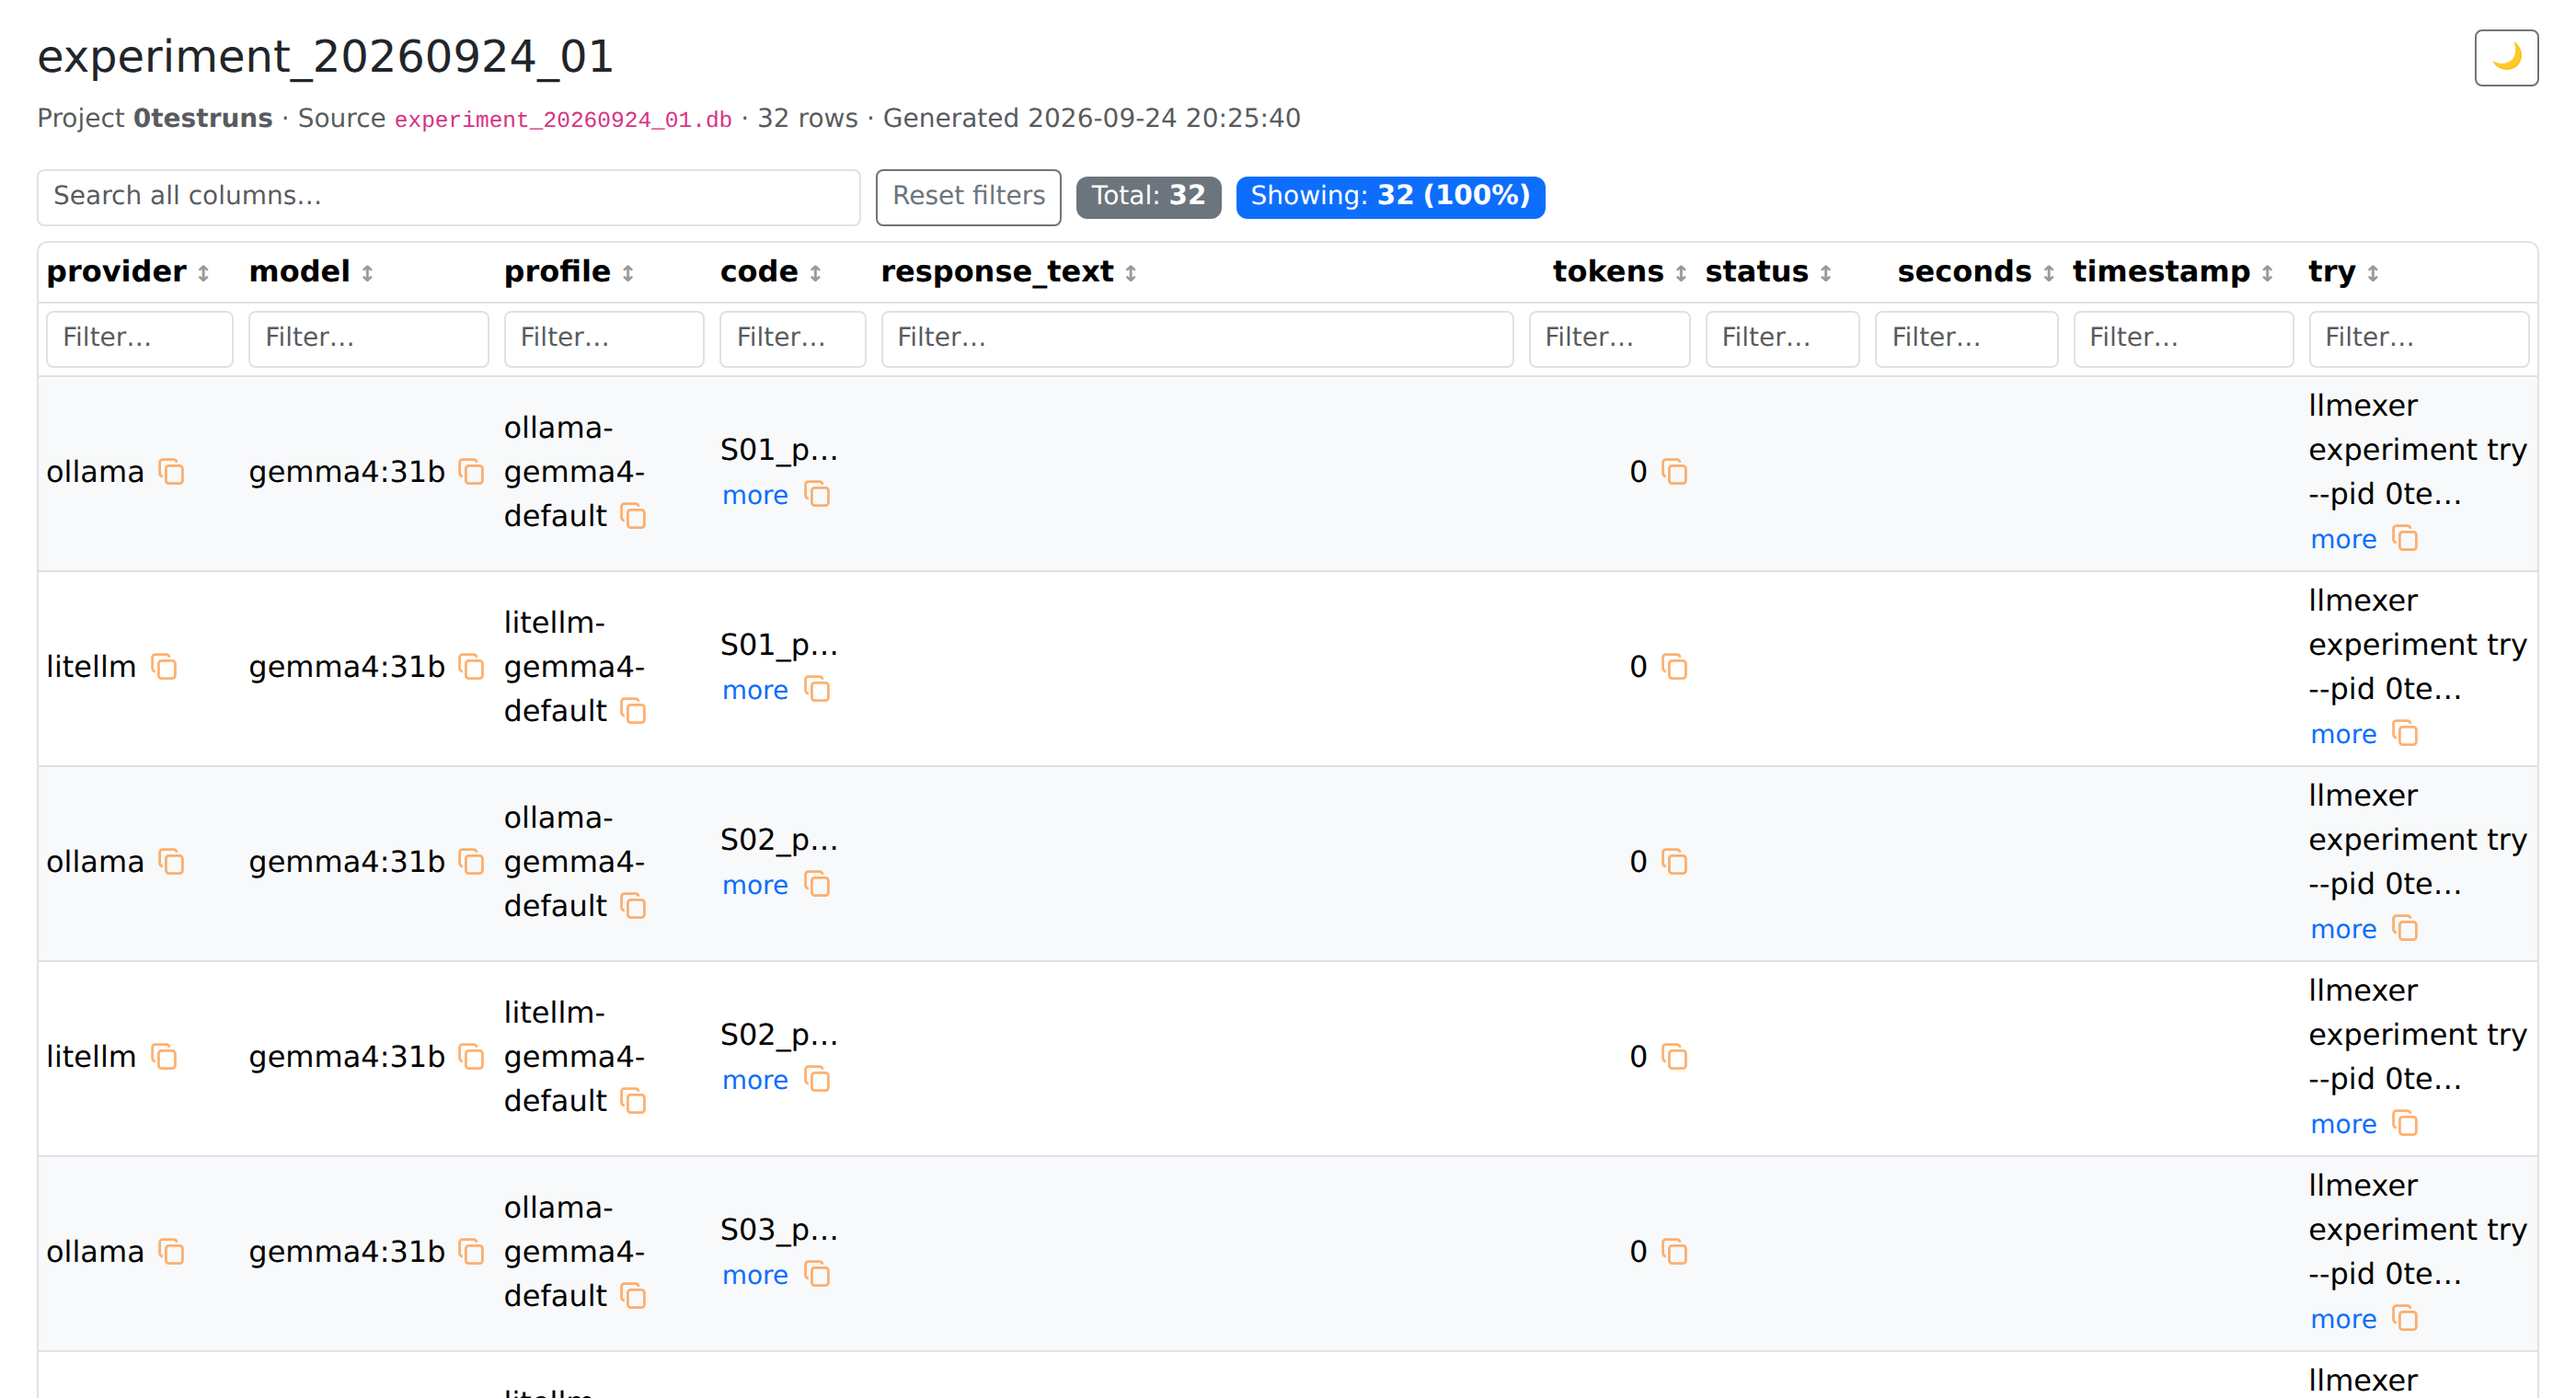
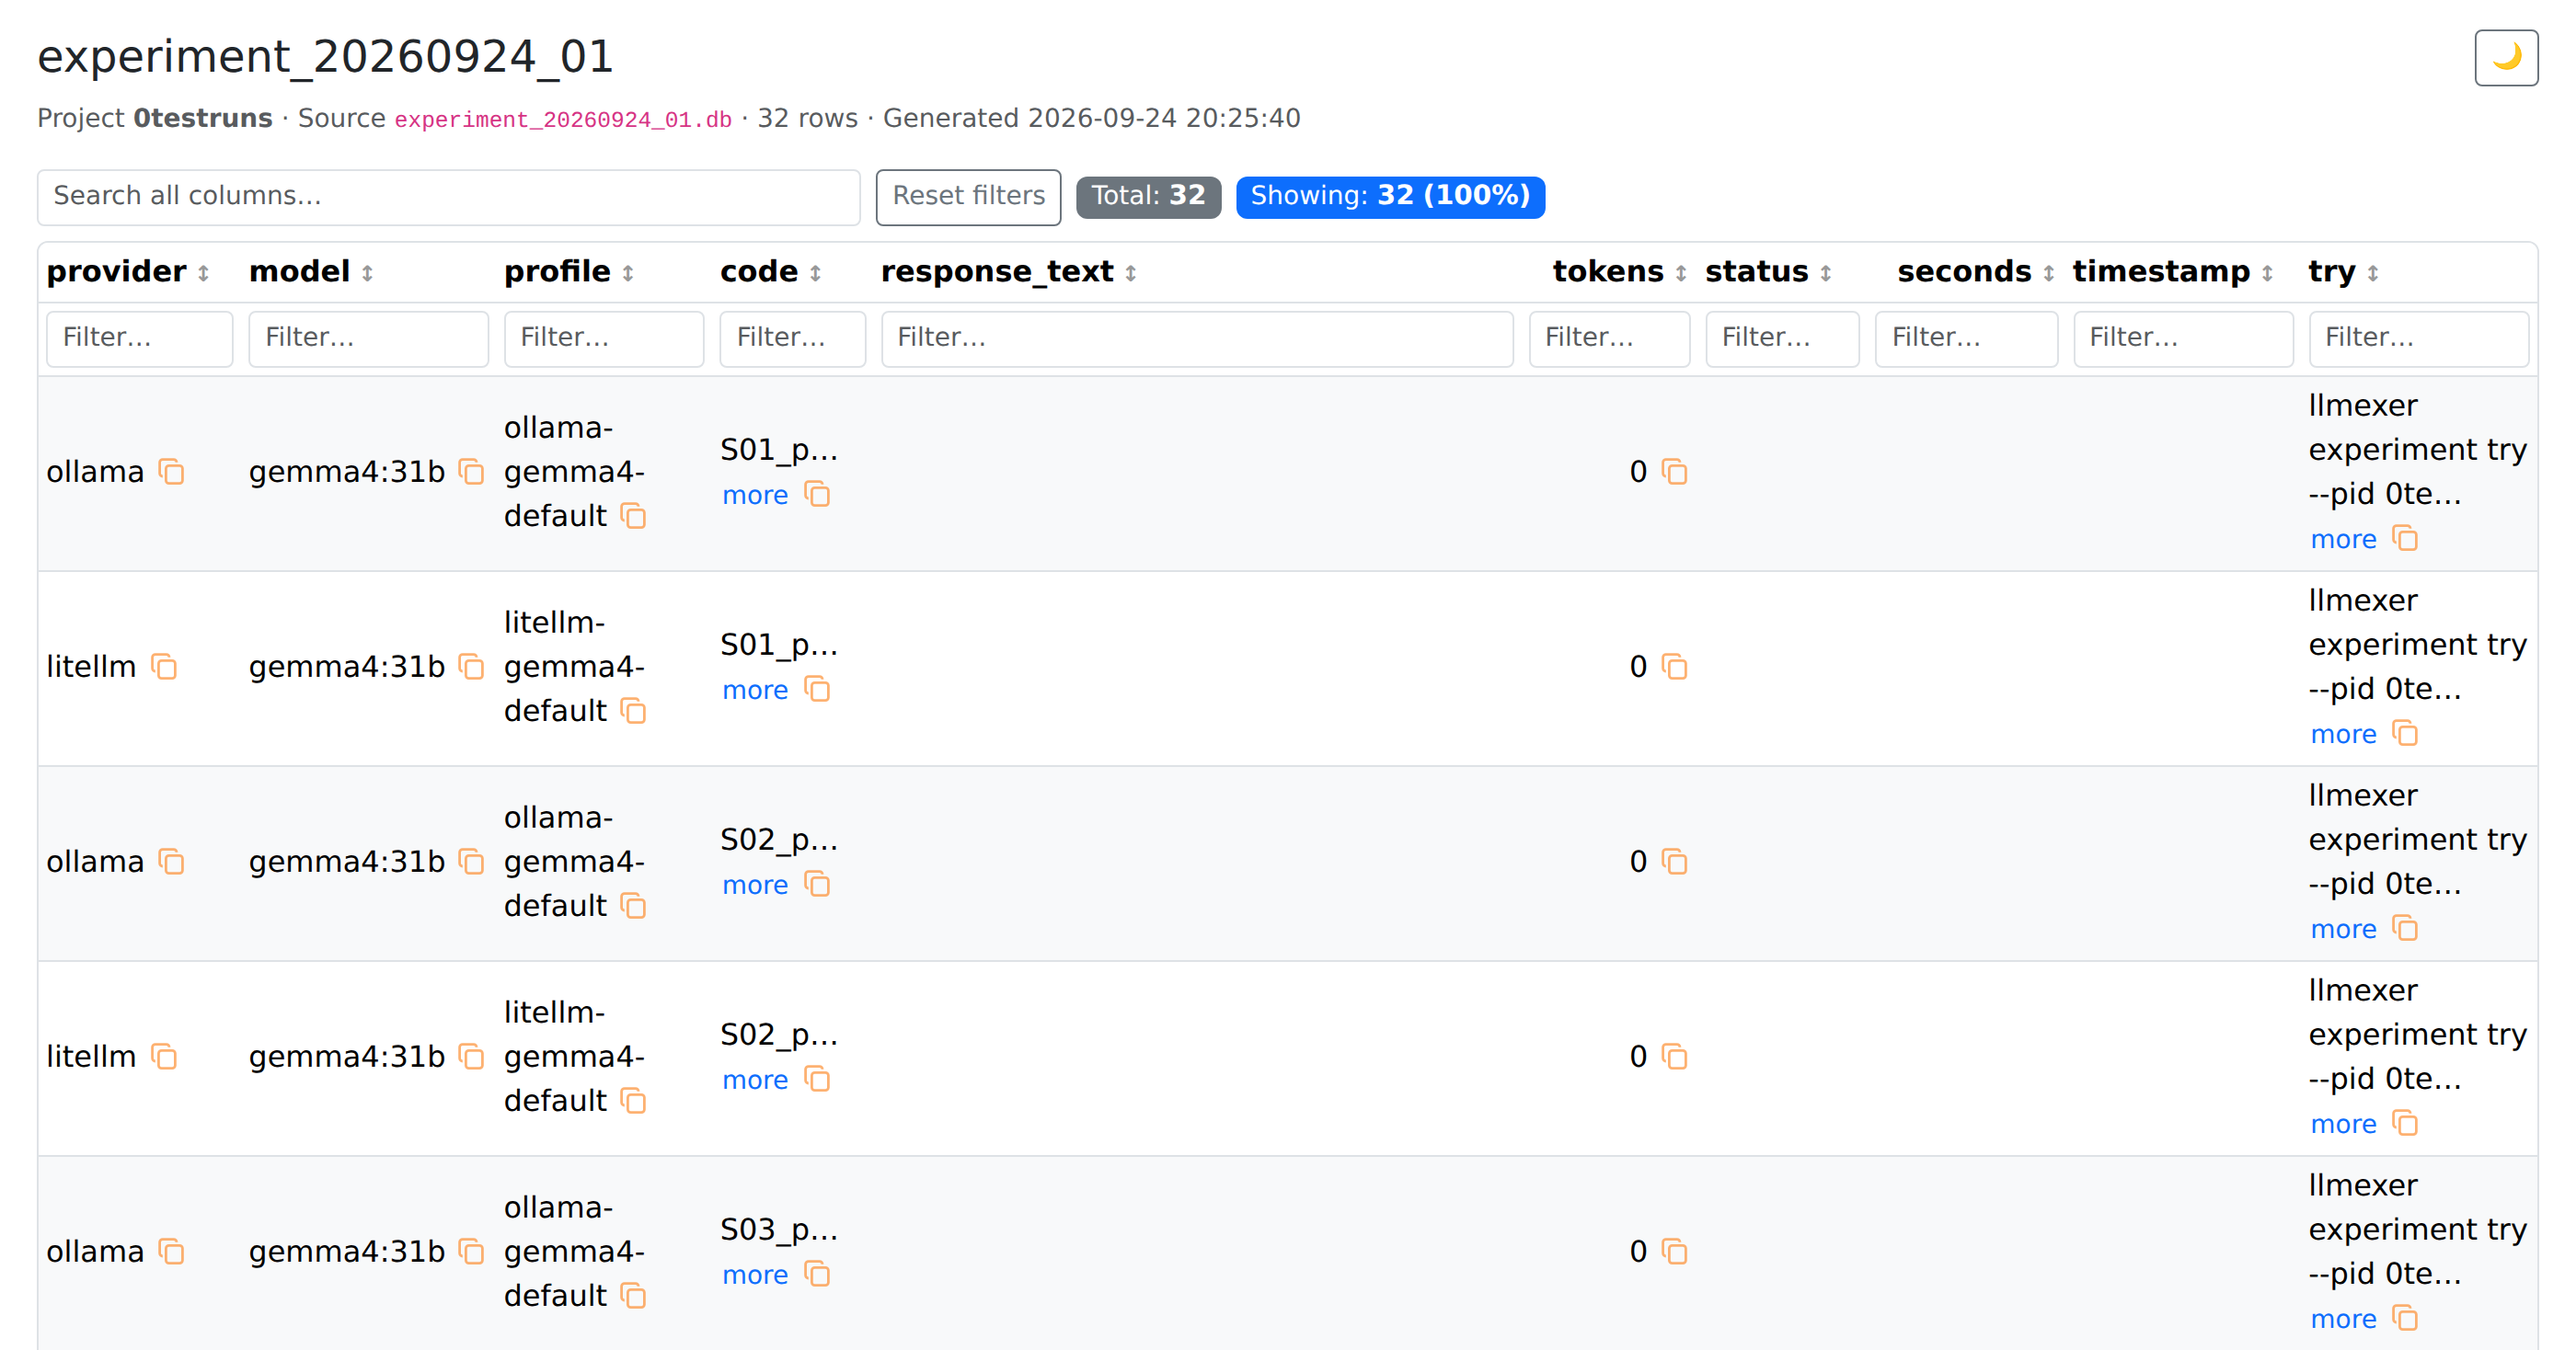
FIX: the image links

diff --git a/content/research/article10-llmexer-tutorial.md b/content/research/article10-llmexer-tutorial.md
@@ -261,12 +261,12 @@ Progress and token counts are available at any time with `llmexer exp stats --pi
 llmexer exp export --pid 0testruns
 ```
 
-![Exporting the experiment as HTML]{static}../images/llmexer-tutorial/18-exp-export.png)
+![Exporting the experiment as HTML]({static}../images/llmexer-tutorial/18-exp-export.png)
 
 The export is a single self-contained HTML page written next to the database. It has sortable columns, per-column filters, a copy button on every cell, and a ready-to-run `experiment try` command for each row:
 
 <center>
-![The exported HTML report in the browser]{static}../images/llmexer-tutorial/20-exp-export-html.png)
+    ![The exported HTML report in the browser]({static}../images/llmexer-tutorial/20-exp-export-html.png)
 </center>
 
 Exports accept the same filters as `run`, plus two of their own: `--filter-code` (a glob over the row code) and `--filter-response` (a regular expression over the model answer), for example `--filter-response '"doesTitleDescribeAbstract":\s*"no"'`. This filter option is useful, if a database with experiments contains over 10K rows - without a filter, the exported HTML will be too big for a browser to handle. 
